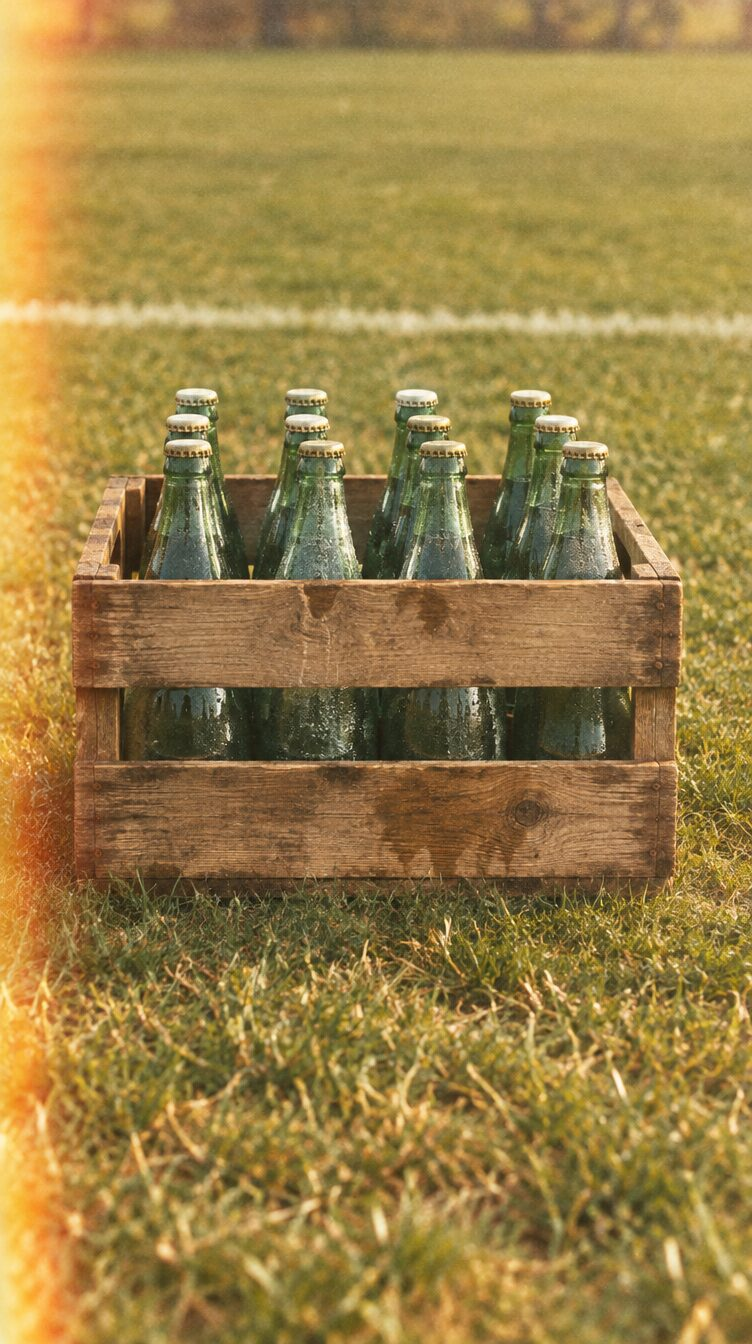
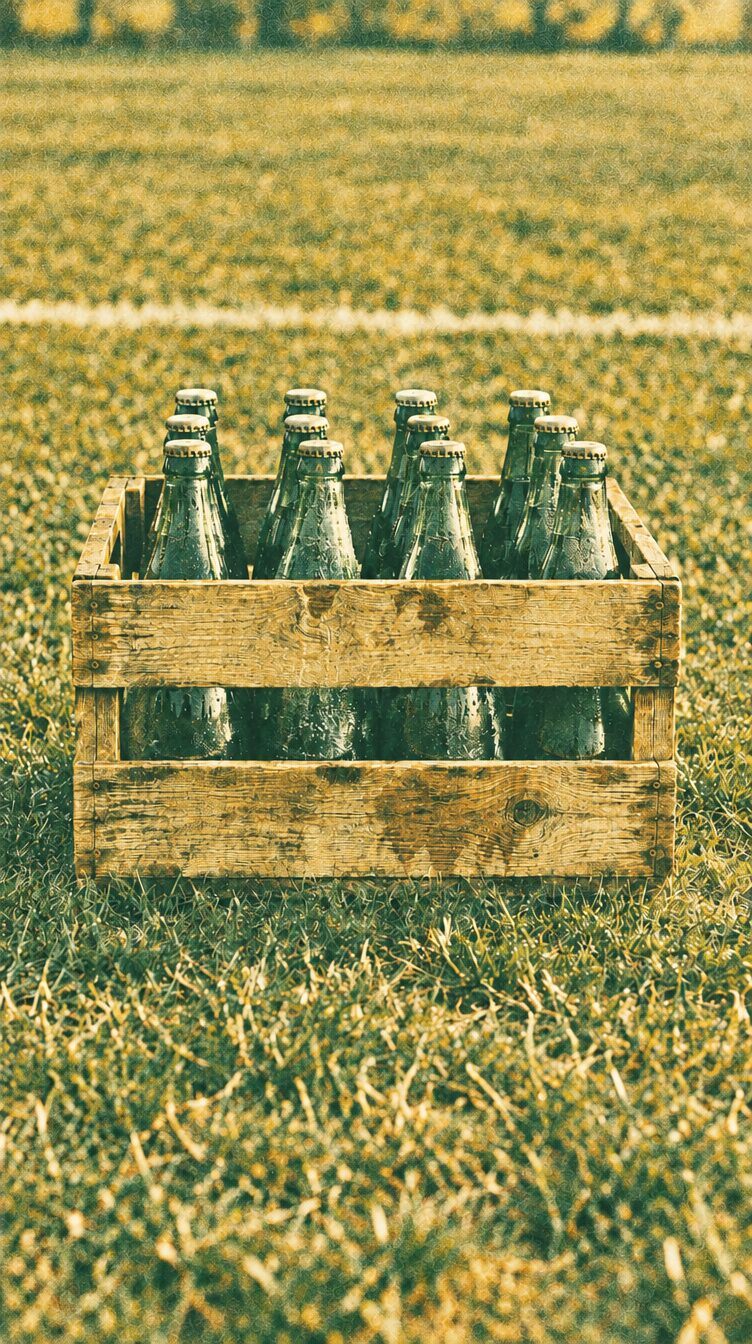
chore(ui): prototype — 4K fallback keepers per look, ?finals=1 (#3518)
Owner's keepers at 1080x1920 webp; B drafts regraded to the club inks.

diff --git a/apps/web/src/app/(main)/share/prototype-looks/page.tsx b/apps/web/src/app/(main)/share/prototype-looks/page.tsx
@@ -48,10 +48,14 @@ type Raw = {
 export default async function ShareLooksPrototypeRoute({
   searchParams,
 }: {
-  searchParams: Promise<{ variant?: string; drafts?: string }>;
+  searchParams: Promise<{
+    variant?: string;
+    drafts?: string;
+    finals?: string;
+  }>;
 }) {
   if (process.env.NODE_ENV === "production") notFound();
-  const { variant, drafts } = await searchParams;
+  const { variant, drafts, finals } = await searchParams;
   // Real club photos live on production; staging holds seed images. Read-only.
   const prod = sanityClient.withConfig({ dataset: "production" });
   if (prod.config().dataset !== "production") throw new Error("not prod");
@@ -105,8 +109,23 @@ export default async function ShareLooksPrototypeRoute({
   // #3518 round 1: `?drafts=1` shows the look's 8 AI fallback drafts on the bare event.
   const bare = items.find((i) => i.key === "eventBare");
   const v = variant ?? "A";
-  const shown =
-    drafts && bare
+  // #3518 round 2: `?finals=1` shows the owner's keepers, rendered at 4K.
+  const FINALS: Record<string, number[]> = {
+    A: [1, 3, 4, 5, 8],
+    B: [1, 2, 3, 4, 6, 7, 8],
+    C: [1, 3, 5, 7, 8],
+    E: [1, 3, 7, 8],
+  };
+  const keep = finals && bare ? (FINALS[v] ?? []) : [];
+  const shown = keep.length
+    ? keep.map((n) => ({
+        ...bare!,
+        key: `final-${n}`,
+        img: null,
+        draft: n,
+        fallback: `/images/share-fallback/${v}-${n}.webp`,
+      }))
+    : drafts && bare
       ? Array.from({ length: 8 }, (_, n) => ({
           ...bare,
           key: `draft-${n + 1}`,
